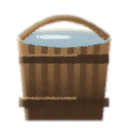
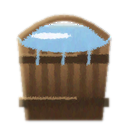
Polish The Sauna Spirit after a full playthrough
Vilja no longer knows about the keeper before Kyllikki explains it, the
apology choices read as her suggestions, the vihta appears on the bench,
Kyllikki stands clear of the ladle, and the water bucket and vihta
icons are easy to tell from the ash bucket and loose twigs.

Claude-Session: https://claude.ai/code/session_0172uacpkraybHRVcJ7stVCu

diff --git a/tools/make_art.py b/tools/make_art.py
@@ -2614,15 +2614,18 @@ def bucket(w, h, full="ash"):
     for y in (top + (base - top) * 0.25, top + (base - top) * 0.78):  # hoops
         stroke(d, [(w * 0.15, y), (w * 0.85, y)], (60, 44, 30), 0.07 * w, 230)
         stroke(d, [(w * 0.15, y - 0.03 * h), (w * 0.6, y - 0.03 * h)], WOOD[2], 0.02 * w, 160)
-    inside = oval(w / 2, top, w * 0.36, h * 0.07)
+    inside = oval(w / 2, top, w * 0.36, h * 0.11)
     if full == "ash":
         tone(img, inside, ASH, "sphere", light=0.05)
         for _ in range(12):
             touch(d, w / 2 + rng.uniform(-w * 0.25, w * 0.25), top + rng.uniform(-h * 0.03, h * 0.03), 0.04 * w, 0.02 * h,
                   ASH[0], 150)
     else:
-        tone(img, inside, WATER, "flat", light=0.1)
-        touch(d, w * 0.42, top - h * 0.01, w * 0.14, h * 0.015, (240, 244, 246), 220)
+        tone(img, inside, ((30, 70, 120), (70, 130, 190), (170, 214, 240)), "flat", light=0.15)
+        touch(d, w * 0.4, top - h * 0.02, w * 0.16, h * 0.025, (250, 252, 255), 240)
+        for k in range(3):  # drips running down the staves
+            x = w * (0.3 + 0.2 * k)
+            stroke(d, [(x, top + h * 0.04), (x - w * 0.01, top + h * 0.2)], (150, 200, 236), 0.025 * w, 200)
     stroke(d, curve((w * 0.16, top), (w * 0.5, top - h * 0.32), (w * 0.84, top), 10), WOOD[1], 0.05 * w, 255)  # handle
     return img
 
@@ -2661,13 +2664,14 @@ def twigs(w, h, bound=False):
     img, d = sprite(w, h)
     rng = random.Random(51 if bound else 52)
     grip = (w * 0.22, h * 0.82)
-    for k in range(9):
-        a = -0.95 + k * 0.11 + rng.uniform(-0.05, 0.05)
-        ln = rng.uniform(0.65, 0.85) * w
+    for k in range(11 if bound else 5):
+        a = (-0.95 + k * 0.09 + rng.uniform(-0.04, 0.04)) if bound else (-1.3 + k * 0.32 + rng.uniform(-0.1, 0.1))
+        a *= min(1.0, h / w)  # a wide picture (the vihta lying on the bench) fans out flatter
+        ln = rng.uniform(0.5, 0.64 if bound else 0.8) * w
         end = (grip[0] + math.cos(a) * ln, grip[1] + math.sin(a) * ln)
         start = grip if bound else (grip[0] + rng.uniform(-w * 0.08, w * 0.08), grip[1] + rng.uniform(-h * 0.05, h * 0.05))
         stroke(d, [start, end], (86, 60, 44), 0.025 * w + 0.05, 255)
-        for f in (0.45, 0.6, 0.72, 0.84, 0.95):
+        for f in ((0.4, 0.52, 0.62, 0.72, 0.82, 0.92) if bound else (0.6, 0.85)):
             lx = start[0] + (end[0] - start[0]) * f + rng.uniform(-w * 0.04, w * 0.04)
             ly = start[1] + (end[1] - start[1]) * f + rng.uniform(-h * 0.04, h * 0.04)
             col = BIRCH_LEAF[rng.randint(0, 2)]
@@ -2676,8 +2680,8 @@ def twigs(w, h, bound=False):
         stroke(d, [(grip[0] - w * 0.12, grip[1] + h * 0.1), (grip[0] + w * 0.04, grip[1] - h * 0.04)], (86, 60, 44), 0.09 * w, 255)
         for k in range(3):
             y = grip[1] + h * 0.02 - k * h * 0.035
-            stroke(d, [(grip[0] - w * 0.08 + k * w * 0.02, y + h * 0.04), (grip[0] + w * 0.02 + k * w * 0.02, y - h * 0.02)],
-                   LINEN[1], 0.035 * w, 255)
+            stroke(d, [(grip[0] - w * 0.1 + k * w * 0.02, y + h * 0.05), (grip[0] + w * 0.04 + k * w * 0.02, y - h * 0.03)],
+                   (236, 228, 206), 0.05 * w, 255)
     return img
 
 
@@ -2692,6 +2696,7 @@ def sauna_objects():
     painted_figure(lambda: coin(16, 16), "items/coin.png", 67, brushes=SMALL_BRUSHES)
     painted_figure(lambda: twigs(16, 16), "items/twigs.png", 68, brushes=SMALL_BRUSHES)
     painted_figure(lambda: twigs(16, 16, bound=True), "items/vihta.png", 69, brushes=SMALL_BRUSHES)
+    painted_figure(lambda: twigs(28, 14, bound=True), "objects/vihta.png", 70, brushes=SMALL_BRUSHES)
 
 
 def titles():

diff --git a/src/story.rs b/src/story.rs
@@ -964,7 +964,7 @@ mod tests {
         // Kyllikki comes to the sauna, and has to say it properly.
         play(&story, &mut s, "talk_kyllikki", &["The sauna's ready"]);
         assert!(s.flags.contains("kyllikki_in_sauna"));
-        let said = play(&story, &mut s, "talk_kyllikki", &["Just say sorry", "Say it was the magpie", "Forgive my tongue"]);
+        let said = play(&story, &mut s, "talk_kyllikki", &["Just tell it", "Tell it the magpie", "Ask its forgiveness"]);
         assert!(said.iter().filter(|l| l.starts_with("Keeper: H")).count() == 2, "{said:?}");
         assert!(s.flags.contains("apologized"));
 
